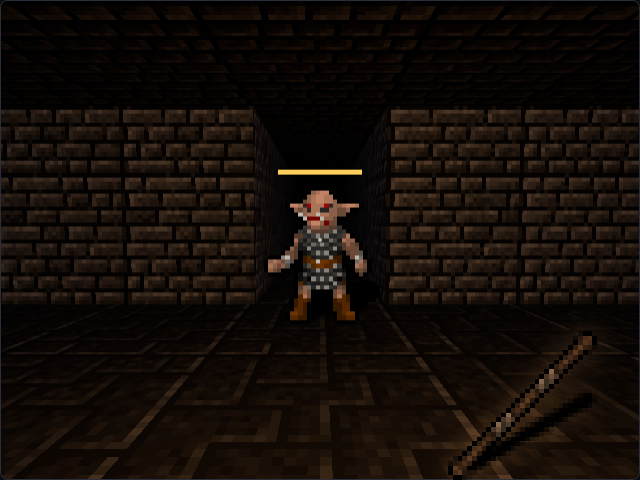
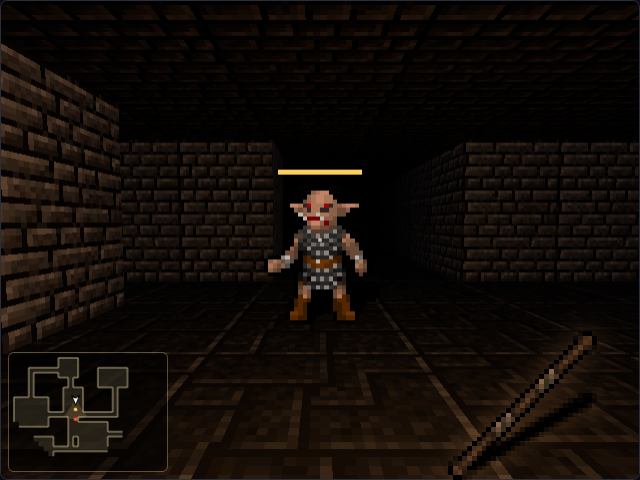
3D 화면에 겹쳐 보는 지도 (dc#110)
- 작게(왼쪽 아래, 처음) → 크게(가운데 반투명) → 끄기: Tab · 휴대폰 지도 버튼, 기기에 저장 (rl_3dmap)
- 가 본 곳의 벽 윤곽, 계단·상점·웨이포인트·묘비, 보이는 아이템·몬스터, 나는 방향 화살표와 시야
- RLView3D.ready로 층을 다 지은 뒤 시험 (첫 프레임이 방향을 바꾸던 흔들림 없앰), 공격 확인은 저장 뒤 읽기
- 도움말·번역, devlog, 블로그 지도 그림

Claude-Session: https://claude.ai/code/session_0136PhXDkXNJUPAKZG8VyysT

diff --git a/index.html b/index.html
@@ -231,6 +231,10 @@
   #hurt3d.on { animation: hurt3d 420ms ease-out; }
   @keyframes hurt3d { from { opacity: 1; } to { opacity: 0; } }
   #view3d-btn.on { border-color: var(--accent); color: var(--accent); }
+  /* 3D 지도 (dc#110): 작게는 왼쪽 아래, 크게는 화면 가운데에 반투명으로 겹침 */
+  #map3d { display: none; position: absolute; pointer-events: none; border-radius: 6px; }
+  body.view-3d:not(.in-lobby):not(.in-tower) #map3d.small { display: block; left: 8px; bottom: 8px; border: 1px solid rgba(214, 200, 150, 0.35); }
+  body.view-3d:not(.in-lobby):not(.in-tower) #map3d.big { display: block; left: 50%; top: 50%; transform: translate(-50%, -50%); background: rgba(0, 0, 0, 0.35); }
   body.in-tower #tp-potion, body.in-tower #map-btn { display: none !important; }   /* 점프 던전: 포션·지도 없음 (점프·포탈(나가기)만) */
   /* 옆에서 보는 화면(점프 던전 dc#89 · 마을 dc#90) 휴대폰 배치: 왼손 엄지 ◀ ▶ (아래에 점프 던전은 ▼ 발판 아래로, 마을은 ▲ 들어가기)
      · 오른손 엄지 큰 점프 버튼 · 위에 작게 인벤토리·도감(·포탈). 상자(.dpad·.actions)를 풀어 버튼을 한 격자에 바로 놓음 */
@@ -682,7 +686,7 @@
   </div>
   <div id="log"></div>
   <p class="hint"><span class="keys-only" data-t>이동: 방향키 / WASD &nbsp;·&nbsp; 제자리 대기: . (마침표) &nbsp;·&nbsp; 포션: Q (10턴마다) &nbsp;·&nbsp; 인벤토리: I &nbsp;·&nbsp; 도감: B &nbsp;·&nbsp; 전체 지도: M &nbsp;·&nbsp; 지도 겹쳐 보기: Tab &nbsp;·&nbsp; 칸 클릭: 자동 이동 &nbsp;·&nbsp; 점프: Space + 방향 &nbsp;·&nbsp; 포탈(로비로): P<br></span>
-  <span class="keys-only" data-t>3D 화면(시험판): V &nbsp;·&nbsp; 앞뒤 W·S &nbsp;·&nbsp; 옆걸음 A·D &nbsp;·&nbsp; 둘러보기: 마우스 또는 ← → &nbsp;·&nbsp; 공격: 클릭 또는 Space<br></span>
+  <span class="keys-only" data-t>3D 화면(시험판): V &nbsp;·&nbsp; 앞뒤 W·S &nbsp;·&nbsp; 옆걸음 A·D &nbsp;·&nbsp; 둘러보기: 마우스 또는 ← → &nbsp;·&nbsp; 공격: 클릭 또는 Space &nbsp;·&nbsp; 지도: Tab (작게·크게·끄기)<br></span>
   <span class="touch-only" data-t>방향 버튼을 누르고 있거나 화면을 밀면 움직여요. 칸을 누르면 거기까지 자동으로 걸어가요.<br></span>
   <span data-t>적에게 부딪히면 공격, 계단(&gt;)을 밟으면 아래층. 5층마다 보스가 있고, 50층 보스를 잡으면 완료 → <b>나이트메어(▼)</b>와 <b>골드 던전</b>이 열려요.<br>
   바닥의 <b>!</b>는 좋은 장비, <b>♦</b>는 보석(인벤토리에서 홈에 넣어요), 무지개색 <b>♦</b>는 룬(나이트메어 50층 보스). 포션(Q)은 10턴마다 무제한. <b>포탈(P)</b>을 타면 로비로 가고 HP가 다 차요.<br>
@@ -4129,7 +4133,7 @@
     render();
   }
   overlayLabel();
-  overlayBtn.addEventListener("click", () => { if (scene === "dungeon") toggleOverlay(); overlayBtn.blur(); });
+  overlayBtn.addEventListener("click", () => { if (View3D.active()) View3D.cycleMap(); else if (scene === "dungeon") toggleOverlay(); overlayBtn.blur(); });
   function drawOverlay() {
     ctx.save();
     ctx.setTransform(PX, 0, 0, PX, 0, 0);
@@ -4639,7 +4643,10 @@
     let drawn = [];               // 지난 프레임에 그린 몬스터 (쓰러지면 연기)
     const stage = document.getElementById("stage"), btn = document.getElementById("view3d-btn");
     const hand = el("div", { id: "hand3d", hidden: true }), hurt = el("div", { id: "hurt3d" }), aim = el("div", { id: "aim3d" });
-    stage.append(hand, hurt, aim);
+    // 겹쳐 보는 지도 (dc#110): 작게(왼쪽 아래) → 크게(화면 전체에 반투명) → 끄기. Tab · 휴대폰 지도 버튼. 기기에 저장 (rl_3dmap)
+    const mapCv = el("canvas", { id: "map3d" }), MAP_MODES = ["small", "big", "off"];
+    let mapMode = MAP_MODES.includes(store.get("rl_3dmap")) ? store.get("rl_3dmap") : "small";
+    stage.append(hand, hurt, aim, mapCv);
     const label = () => { btn.textContent = on ? T("2D 화면 (V)") : T("3D 화면 (V)"); btn.classList.toggle("on", on); };
     const active = () => on && !!view && scene === "dungeon";
     const paused = () => gameOver || document.hidden || Ads.isOpen() || portalAd || !!document.querySelector(".overlay:not([hidden])");
@@ -4807,6 +4814,54 @@
         const sp = (now - swingT) / 260;
         hand.style.transform = sp < 1 ? `rotate(${-70 * Math.sin(sp * Math.PI)}deg) translate(${-40 * Math.sin(sp * Math.PI)}px, ${-20 * Math.sin(sp * Math.PI)}px)` : `translateY(${bob * 300}px)`;
       }
+      drawMap();
+    }
+    // 지도: 가 본 곳의 바닥과 벽 윤곽 (2D 지도 겹쳐 보기와 같은 모양), 계단 · 상점 · 웨이포인트 · 보이는 아이템과 몬스터,
+    //   나는 보는 방향을 가리키는 화살표와 옅은 시야. 위쪽이 북쪽(지도 그대로)
+    function cycleMap() {
+      mapMode = MAP_MODES[(MAP_MODES.indexOf(mapMode) + 1) % MAP_MODES.length];
+      store.set("rl_3dmap", mapMode);
+      Tips.step("map");
+    }
+    function drawMap() {
+      mapCv.className = mapMode;
+      if (mapMode === "off") return;
+      const big = mapMode === "big", cw = view.canvas.clientWidth, K = big ? Math.floor(Math.min(cw / MAP_W, cw * 0.75 / MAP_H) * 0.92) : Math.max(4, Math.round(cw / 128));
+      const w = MAP_W * K, h = MAP_H * K, dpr = Math.min(2, window.devicePixelRatio || 1);
+      if (mapCv.width !== Math.round(w * dpr)) { mapCv.width = Math.round(w * dpr); mapCv.height = Math.round(h * dpr); mapCv.style.width = `${w}px`; mapCv.style.height = `${h}px`; }
+      const g = mapCv.getContext("2d");
+      g.setTransform(dpr, 0, 0, dpr, 0, 0);
+      g.clearRect(0, 0, w, h);
+      if (!big) { g.fillStyle = "rgba(0, 0, 0, 0.55)"; g.fillRect(0, 0, w, h); }
+      const open = (x, y) => x >= 0 && y >= 0 && x < MAP_W && y < MAP_H && map[y][x] !== WALL;
+      g.fillStyle = "rgba(214, 200, 150, 0.14)";
+      g.beginPath();
+      for (let y = 0; y < MAP_H; y++) for (let x = 0; x < MAP_W; x++) {
+        if (!seen[y][x] || !open(x, y)) continue;
+        const px = x * K, py = y * K;
+        g.fillRect(px, py, K, K);
+        if (!open(x, y - 1)) { g.moveTo(px, py); g.lineTo(px + K, py); }
+        if (!open(x, y + 1)) { g.moveTo(px, py + K); g.lineTo(px + K, py + K); }
+        if (!open(x - 1, y)) { g.moveTo(px, py); g.lineTo(px, py + K); }
+        if (!open(x + 1, y)) { g.moveTo(px + K, py); g.lineTo(px + K, py + K); }
+      }
+      g.strokeStyle = "rgba(214, 200, 150, 0.85)"; g.lineWidth = big ? 1.5 : 1; g.stroke();
+      const dot = (x, y, color, r = K * 0.32) => { g.fillStyle = color; g.beginPath(); g.arc((x + 0.5) * K, (y + 0.5) * K, Math.max(1.5, r), 0, Math.PI * 2); g.fill(); };
+      for (let y = 0; y < MAP_H; y++) for (let x = 0; x < MAP_W; x++) if (seen[y][x] && map[y][x] === STAIRS) dot(x, y, "#ffcf5c", K * 0.45);
+      if (shop && seen[shop.y]?.[shop.x]) dot(shop.x, shop.y, SHOP_COLOR, K * 0.45);
+      if (wpSpot && seen[wpSpot.y]?.[wpSpot.x]) dot(wpSpot.x, wpSpot.y, WP_COLOR, K * 0.45);
+      if (grave && seen[grave.y]?.[grave.x]) dot(grave.x, grave.y, "#c8ccd8", K * 0.4);
+      for (const it of items) if (visible[it.y]?.[it.x]) dot(it.x, it.y, it.type === "gear" ? RLItems.RARITIES[it.item.rarity]?.color || "#fff" : it.type === "gold" ? "#ffcf5c" : "#ff6bd3", K * 0.22);
+      for (const e of enemies) if (e.hp > 0 && visible[e.y]?.[e.x]) { const d = disp.get(e); dot(d ? d.x : e.x, d ? d.y : e.y, e.named ? RLMonsters.NAMED_COLOR : e.kind === "boss" ? BOSS_COLOR : e.kind === "elite" ? ELITE_COLOR : "#ff4a3a", K * 0.34); }
+      // 나: 시야(옅은 부채꼴)와 보는 쪽 화살표
+      const mx = pos.x * K, my = pos.y * K, a = yaw - Math.PI / 2;
+      g.fillStyle = "rgba(255, 200, 120, 0.16)";
+      g.beginPath(); g.moveTo(mx, my); g.arc(mx, my, K * 4, a - 0.6, a + 0.6); g.closePath(); g.fill();
+      g.save(); g.translate(mx, my); g.rotate(yaw);
+      const r = Math.max(5.5, K * 0.6);
+      g.fillStyle = "#ffffff"; g.strokeStyle = "#000"; g.lineWidth = 1;
+      g.beginPath(); g.moveTo(0, -r); g.lineTo(r * 0.7, r * 0.7); g.lineTo(0, r * 0.3); g.lineTo(-r * 0.7, r * 0.7); g.closePath(); g.fill(); g.stroke();
+      g.restore();
     }
     // 피해 숫자 자리 (showDamage): 그 몬스터·나의 머리 위
     function popAt(target) {
@@ -4836,6 +4891,7 @@
         case "arrowleft": held.tl = v; return true;
         case "arrowright": held.tr = v; return true;
         case " ": case "f": case "enter": held.atk = down; if (down) swing(); return true;
+        case "tab": if (down) cycleMap(); return true;
         default: return false;
       }
     }
@@ -4878,7 +4934,9 @@
     label();
     if (on) load();
     requestAnimationFrame(loop);
-    return { get on() { return on; }, active, toggle, key, release, popAt, fx, swing, get pos() { return { ...pos, yaw, pitch }; },
+    return { get on() { return on; }, active, toggle, key, release, popAt, fx, swing, cycleMap, get mapMode() { return mapMode; },
+      get ready() { return active() && levelRef === map; },   // ready: 이 층을 다 지어 그리는 중 (시험·그림 찍기에서 기다림)
+      get pos() { return { ...pos, yaw, pitch }; },
       // 시험용: 보는 방향·자리 바꾸기
       look(a, p = 0) { yaw = a; pitch = p; } };
   })();

diff --git a/blog/naver/2026-10-28.html b/blog/naver/2026-10-28.html
@@ -72,7 +72,7 @@
 <p class="steps">네이버 블로그 → 글쓰기에서 ① 제목 복사 → 제목 칸에 붙여 넣기 ② 본문 복사 → 본문에 붙여 넣기 ③ 태그 입력 → 발행</p>
 <div class="bar"><button type="button" id="copy-title">① 제목 복사</button><button type="button" id="copy-body">② 본문 복사</button></div>
 <p id="status" aria-live="polite"></p>
-<p class="steps">이미지 9장은 본문과 함께 복사돼요. 네이버에 이미지가 안 들어가면 아래에서 저장해서 그 자리에 올려 주세요: <a href="../images/store-cover.jpg" download="2026-10-28-1-store-cover.jpg">1. 가로 표지: 헬 던전에서 화염구가 터지는 순간과 게임 로고</a> · <a href="../images/media-page.png" download="2026-10-28-2-media-page.png">2. 블로그의 게임 이미지 페이지: 누르면 원래 크기, 내려받기 버튼과 전체 zip</a> · <a href="../images/sound-steps.png" download="2026-10-28-3-sound-steps.png">3. 🔊 소리 설정: 효과음과 따로 발소리만 끌 수 있어요</a> · <a href="../images/gift-banner.png" download="2026-10-28-4-gift-banner.png">4. 받을 수 있으면 게임 화면 오른쪽 위에 반짝이는 배너</a> · <a href="../images/gift-pick.png" download="2026-10-28-5-gift-pick.png">5. 광고를 보고 나면 세트·유니크 3개 중 하나를 골라요</a> · <a href="../images/shop-odds.png" download="2026-10-28-6-shop-odds.png">6. 상점 아래에 붙은 장비 상자 확률 정보</a> · <a href="../images/view3d-dungeon.png" download="2026-10-28-7-view3d-dungeon.png">7. 3D 화면: 횃불 하나로 비추는 어두운 던전, 몬스터가 먼저 다가와요</a> · <a href="../images/view3d-hell.png" download="2026-10-28-8-view3d-hell.png">8. 3D 화면: 헬 던전은 붉은 빛</a> · <a href="../images/view3d-fight.png" download="2026-10-28-9-view3d-fight.png">9. 3D 화면: 붙은 몬스터를 휘둘러 공격, 맞으면 화면 가장자리가 붉게</a></p>
+<p class="steps">이미지 10장은 본문과 함께 복사돼요. 네이버에 이미지가 안 들어가면 아래에서 저장해서 그 자리에 올려 주세요: <a href="../images/store-cover.jpg" download="2026-10-28-1-store-cover.jpg">1. 가로 표지: 헬 던전에서 화염구가 터지는 순간과 게임 로고</a> · <a href="../images/media-page.png" download="2026-10-28-2-media-page.png">2. 블로그의 게임 이미지 페이지: 누르면 원래 크기, 내려받기 버튼과 전체 zip</a> · <a href="../images/sound-steps.png" download="2026-10-28-3-sound-steps.png">3. 🔊 소리 설정: 효과음과 따로 발소리만 끌 수 있어요</a> · <a href="../images/gift-banner.png" download="2026-10-28-4-gift-banner.png">4. 받을 수 있으면 게임 화면 오른쪽 위에 반짝이는 배너</a> · <a href="../images/gift-pick.png" download="2026-10-28-5-gift-pick.png">5. 광고를 보고 나면 세트·유니크 3개 중 하나를 골라요</a> · <a href="../images/shop-odds.png" download="2026-10-28-6-shop-odds.png">6. 상점 아래에 붙은 장비 상자 확률 정보</a> · <a href="../images/view3d-dungeon.png" download="2026-10-28-7-view3d-dungeon.png">7. 3D 화면: 횃불 하나로 비추는 어두운 던전, 몬스터가 먼저 다가와요</a> · <a href="../images/view3d-hell.png" download="2026-10-28-8-view3d-hell.png">8. 3D 화면: 헬 던전은 붉은 빛</a> · <a href="../images/view3d-fight.png" download="2026-10-28-9-view3d-fight.png">9. 3D 화면: 붙은 몬스터를 휘둘러 공격, 맞으면 화면 가장자리가 붉게</a> · <a href="../images/view3d-map.png" download="2026-10-28-10-view3d-map.png">10. 3D 화면에 겹쳐 보는 지도: Tab으로 작게 → 크게 → 끄기</a></p>
 <div id="paper">
 <p>어제 던전 크롤러를 Poki·CrazyGames 같은 게임 포털에 올릴 수 있게 혼자 하는 HTML5 버전을 만들었어요. 그런데 포털에 게임을 등록하려면 게임 파일만으로는 부족해요. 게임 목록에 보일 표지(썸네일), 게임 화면 캡처, 소개 글과 조작법도 필요해요.</p>
 <p><br></p>
@@ -224,6 +224,17 @@
 <p style="text-align:center;"><img src="https://game.apacimtest.com/blog/images/view3d-fight.png" alt="3D 화면: 붙은 몬스터를 휘둘러 공격, 맞으면 화면 가장자리가 붉게" style="max-width:100%;height:auto;"></p>
 <p style="text-align:center;"><span style="font-size:13px;color:#888888;">3D 화면: 붙은 몬스터를 휘둘러 공격, 맞으면 화면 가장자리가 붉게</span></p>
 <p><br></p>
+<p><b><span style="font-size:19px;">3D에서도 지도를 겹쳐 봐요</span></b></p>
+<p>1인칭으로 보니 길을 잃기 쉬웠어요. 그래서 3D 화면 위에 지도를 겹쳐 보이게 했어요.</p>
+<p><br></p>
+<p>• 처음에는 왼쪽 아래에 작은 지도가 떠요</p>
+<p>• Tab(휴대폰은 지도 버튼)을 누르면 화면 가운데에 크게, 한 번 더 누르면 꺼져요</p>
+<p>• 가 본 곳의 벽 윤곽, 계단, 상점, 웨이포인트, 보이는 아이템과 몬스터가 나와요</p>
+<p>• 나는 화살표로 보이고, 보는 쪽으로 옅은 시야가 펼쳐져요</p>
+<p><br></p>
+<p style="text-align:center;"><img src="https://game.apacimtest.com/blog/images/view3d-map.png" alt="3D 화면에 겹쳐 보는 지도: Tab으로 작게 → 크게 → 끄기" style="max-width:100%;height:auto;"></p>
+<p style="text-align:center;"><span style="font-size:13px;color:#888888;">3D 화면에 겹쳐 보는 지도: Tab으로 작게 → 크게 → 끄기</span></p>
+<p><br></p>
 <p><b><span style="font-size:19px;">규칙은 하나도 안 바뀌었어요</span></b></p>
 <p>화면만 바뀌고 나머지는 모두 원래 게임 그대로예요. 몬스터, 아이템, 세트 스킬, 계단, 웨이포인트, 저장, 랭킹 모두 같은 코드가 처리해요. 그래서 2D로 하던 판을 3D로 이어서 할 수도 있고, 언제든 다시 2D로 돌아갈 수도 있어요.</p>
 <p><br></p>
@@ -233,7 +244,7 @@
 <p>• 포털 등록 화면에서 받는 크기를 확인하고, 다르면 그 크기로 다시 만들기</p>
 <p>• 포털에 올리고 Poki·CrazyGames의 확인 도구로 광고와 플레이 알림 확인하기</p>
 <p>• 구글 광고 승인이 나면 무료 선물 광고도 진짜 광고로 바꾸기</p>
-<p>• 3D 화면 다듬기: 작은 지도, 몬스터·장비를 3D 모델로, 휴대폰에서 확인</p>
+<p>• 3D 화면 다듬기: 몬스터·장비를 3D 모델로, 휴대폰에서 확인</p>
 <p>• 안드로이드 앱으로 만들어서 구글 플레이에 올리기</p>
 <p><br></p>
 <p><br></p>

diff --git a/blog/2026-10-28.html b/blog/2026-10-28.html
@@ -121,11 +121,15 @@
 <p>예전에는 내가 한 칸 움직여야 몬스터도 한 칸 움직였어요. 3D 화면에서는 0.6초마다 저절로 시간이 흘러서, 가만히 있어도 몬스터가 먼저 다가오고 때려요.</p>
 <ul><li>키보드: W·S 앞뒤, A·D 옆걸음, 마우스(또는 ← →)로 둘러보기, 클릭이나 Space로 공격</li><li>휴대폰: 화면 왼쪽을 끌면 이동, 오른쪽을 끌면 둘러보기, 공격 버튼이나 화면 오른쪽을 톡</li><li>공격은 0.6초에 한 번이에요. 옆이나 뒤에 붙은 몬스터는 돌아서 때려요</li><li>맞으면 화면 가장자리가 붉게 번쩍여요</li><li>인벤토리나 상점 창을 열면 시간이 멈춰요</li></ul>
 <figure><img src="images/view3d-fight.png" alt="3D 화면: 붙은 몬스터를 휘둘러 공격, 맞으면 화면 가장자리가 붉게" loading="lazy"><figcaption>3D 화면: 붙은 몬스터를 휘둘러 공격, 맞으면 화면 가장자리가 붉게</figcaption></figure>
+<h3>3D에서도 지도를 겹쳐 봐요</h3>
+<p>1인칭으로 보니 길을 잃기 쉬웠어요. 그래서 3D 화면 위에 지도를 겹쳐 보이게 했어요.</p>
+<ul><li>처음에는 왼쪽 아래에 작은 지도가 떠요</li><li>Tab(휴대폰은 지도 버튼)을 누르면 화면 가운데에 크게, 한 번 더 누르면 꺼져요</li><li>가 본 곳의 벽 윤곽, 계단, 상점, 웨이포인트, 보이는 아이템과 몬스터가 나와요</li><li>나는 화살표로 보이고, 보는 쪽으로 옅은 시야가 펼쳐져요</li></ul>
+<figure><img src="images/view3d-map.png" alt="3D 화면에 겹쳐 보는 지도: Tab으로 작게 → 크게 → 끄기" loading="lazy"><figcaption>3D 화면에 겹쳐 보는 지도: Tab으로 작게 → 크게 → 끄기</figcaption></figure>
 <h3>규칙은 하나도 안 바뀌었어요</h3>
 <p>화면만 바뀌고 나머지는 모두 원래 게임 그대로예요. 몬스터, 아이템, 세트 스킬, 계단, 웨이포인트, 저장, 랭킹 모두 같은 코드가 처리해요. 그래서 2D로 하던 판을 3D로 이어서 할 수도 있고, 언제든 다시 2D로 돌아갈 수도 있어요.</p>
 <p>게임 위쪽의 <strong>3D 화면 (V)</strong> 버튼으로 켜요. 아직 시험판이라 처음에는 꺼져 있어요. 3D 그림 프로그램(three.js)은 켤 때만 받아서, 2D로 하는 사람은 기다릴 필요가 없어요. 마을은 지금처럼 옆에서 보는 화면이에요.</p>
 <h2>다음에 할 것</h2>
-<ul><li>포털 등록 화면에서 받는 크기를 확인하고, 다르면 그 크기로 다시 만들기</li><li>포털에 올리고 Poki·CrazyGames의 확인 도구로 광고와 플레이 알림 확인하기</li><li>구글 광고 승인이 나면 무료 선물 광고도 진짜 광고로 바꾸기</li><li>3D 화면 다듬기: 작은 지도, 몬스터·장비를 3D 모델로, 휴대폰에서 확인</li><li>안드로이드 앱으로 만들어서 구글 플레이에 올리기</li></ul>
+<ul><li>포털 등록 화면에서 받는 크기를 확인하고, 다르면 그 크기로 다시 만들기</li><li>포털에 올리고 Poki·CrazyGames의 확인 도구로 광고와 플레이 알림 확인하기</li><li>구글 광고 승인이 나면 무료 선물 광고도 진짜 광고로 바꾸기</li><li>3D 화면 다듬기: 몬스터·장비를 3D 모델로, 휴대폰에서 확인</li><li>안드로이드 앱으로 만들어서 구글 플레이에 올리기</li></ul>
 </article>
 <nav class="pager"><span><a href="2026-10-27.html">← 점프 던전은 쉬고, 웨이포인트·묘비, 50층 정식 v1, 소리, 그리고 게임 포털 준비</a></span><span></span></nav>
 <footer>던전 크롤러 개발 블로그 · <a href="https://game.apacimtest.com/">게임 하기</a> · <a href="https://game.apacimtest.com/blog/media.html">게임 이미지</a> · <a href="https://game.apacimtest.com/blog/feed.xml">RSS</a></footer>

diff --git a/i18n/ja-ui.js b/i18n/ja-ui.js
@@ -1160,7 +1160,7 @@
     "장비 상자 확률": "装備ボックスの確率",
     // 3D 화면 (dc#109)
     "공격": "攻撃",
-    "3D 화면(시험판): V &nbsp;·&nbsp; 앞뒤 W·S &nbsp;·&nbsp; 옆걸음 A·D &nbsp;·&nbsp; 둘러보기: 마우스 또는 ← → &nbsp;·&nbsp; 공격: 클릭 또는 Space<br>": "3D画面(試験版): V &nbsp;·&nbsp; 前後 W·S &nbsp;·&nbsp; 横移動 A·D &nbsp;·&nbsp; 見回す: マウスまたは ← → &nbsp;·&nbsp; 攻撃: クリックまたは Space<br>",
+    "3D 화면(시험판): V &nbsp;·&nbsp; 앞뒤 W·S &nbsp;·&nbsp; 옆걸음 A·D &nbsp;·&nbsp; 둘러보기: 마우스 또는 ← → &nbsp;·&nbsp; 공격: 클릭 또는 Space &nbsp;·&nbsp; 지도: Tab (작게·크게·끄기)<br>": "3D画面(試験版): V &nbsp;·&nbsp; 前後 W·S &nbsp;·&nbsp; 横移動 A·D &nbsp;·&nbsp; 見回す: マウスまたは ← → &nbsp;·&nbsp; 攻撃: クリックまたは Space &nbsp;·&nbsp; マップ: Tab (小・大・オフ)<br>",
     "2D 화면 (V)": "2D画面 (V)",
     "3D 화면 (V)": "3D画面 (V)",
     "이 기기에서는 3D 화면을 쓸 수 없어서 2D로 돌아왔다.": "この端末では3D画面を使えないため、2Dに戻った。",

diff --git a/i18n/en-ui.js b/i18n/en-ui.js
@@ -1160,7 +1160,7 @@
     "장비 상자 확률": "Equipment box drop rates",
     // 3D 화면 (dc#109)
     "공격": "Attack",
-    "3D 화면(시험판): V &nbsp;·&nbsp; 앞뒤 W·S &nbsp;·&nbsp; 옆걸음 A·D &nbsp;·&nbsp; 둘러보기: 마우스 또는 ← → &nbsp;·&nbsp; 공격: 클릭 또는 Space<br>": "3D view (beta): V &nbsp;·&nbsp; forward/back W·S &nbsp;·&nbsp; strafe A·D &nbsp;·&nbsp; look: mouse or ← → &nbsp;·&nbsp; attack: click or Space<br>",
+    "3D 화면(시험판): V &nbsp;·&nbsp; 앞뒤 W·S &nbsp;·&nbsp; 옆걸음 A·D &nbsp;·&nbsp; 둘러보기: 마우스 또는 ← → &nbsp;·&nbsp; 공격: 클릭 또는 Space &nbsp;·&nbsp; 지도: Tab (작게·크게·끄기)<br>": "3D view (beta): V &nbsp;·&nbsp; forward/back W·S &nbsp;·&nbsp; strafe A·D &nbsp;·&nbsp; look: mouse or ← → &nbsp;·&nbsp; attack: click or Space &nbsp;·&nbsp; map: Tab (small · large · off)<br>",
     "2D 화면 (V)": "2D view (V)",
     "3D 화면 (V)": "3D view (V)",
     "이 기기에서는 3D 화면을 쓸 수 없어서 2D로 돌아왔다.": "3D view isn't available on this device, so you're back in 2D.",

diff --git a/docs/devlog/2026-10-28.md b/docs/devlog/2026-10-28.md
@@ -165,3 +165,21 @@
 - `test/view3d-e2e.mjs`(새로, 27개): 꺼져 있으면 2D 그대로·three.js를 받지 않음, V로 켜고 끄기(저장), WebGL로 실제로 그려짐, W로 걷기·줍기·벽에 막힘·옆걸음, 시간이 흘러 몬스터가 다가옴, 인벤토리를 열면 멈춤, 앞 몬스터 공격·한 턴에 한 번·뒤 몬스터는 돌아서, 피해 숫자 위치, 계단 → 다음 층을 새로 그림, 마을은 2D
 - 헤드리스 WebGL은 SwiftShader (`--use-angle=swiftshader`)
 
+## 3D 화면에 겹쳐 보는 지도 (dc#110)
+
+### 사용자 요청
+- "3D라도 작은 지도가 겹쳐보이게 할수 없어?"
+
+### 바꾼 것
+- `index.html` View3D: 3D 화면 위에 지도 캔버스(`#map3d`)
+  - 작게(처음, 왼쪽 아래 · 한 칸 약 5px, 어두운 바탕) → 크게(화면 가운데에 반투명, 화면에 맞는 크기) → 끄기. Tab · 휴대폰 지도 버튼, 기기에 저장 (`rl_3dmap`)
+  - 2D 지도 겹쳐 보기와 같은 모양: 가 본 곳의 바닥과 벽 윤곽, 계단 · 상점 · 웨이포인트 · 묘비, 보이는 아이템(등급 색)과 몬스터(정예·보스·네임드 색)
+  - 나는 보는 방향 화살표 + 옅은 시야 부채꼴. 위쪽이 북쪽
+  - 왼쪽 위 튜토리얼 말풍선·오른쪽 위 선물 배너와 겹치지 않게 작은 지도는 왼쪽 아래
+- `RLView3D.ready`: 층을 다 지어 그리는 중 (시험·그림 찍기는 이걸 기다림 → 첫 프레임이 보는 방향을 바꾸는 일 없음)
+- 도움말에 "지도: Tab (작게·크게·끄기)" (en·ja)
+
+### 테스트
+- `view3d-e2e`(31개): 작은 지도가 처음에 왼쪽 아래에 그려짐, Tab → 크게(가운데) → 끄기(저장) → 작게
+- 공격 확인은 저장(턴이 지날 때)을 기다렸다가 읽게 고침 (가끔 저장 전에 읽어 실패하던 것)
+

diff --git a/blog/posts/2026-10-28.md b/blog/posts/2026-10-28.md
@@ -161,6 +161,17 @@ tags: 개발일기, 게임 포털, 사운드, 광고 보상, Claude Code
 
 ![3D 화면: 붙은 몬스터를 휘둘러 공격, 맞으면 화면 가장자리가 붉게](images/view3d-fight.png)
 
+### 3D에서도 지도를 겹쳐 봐요
+
+1인칭으로 보니 길을 잃기 쉬웠어요. 그래서 3D 화면 위에 지도를 겹쳐 보이게 했어요.
+
+- 처음에는 왼쪽 아래에 작은 지도가 떠요
+- Tab(휴대폰은 지도 버튼)을 누르면 화면 가운데에 크게, 한 번 더 누르면 꺼져요
+- 가 본 곳의 벽 윤곽, 계단, 상점, 웨이포인트, 보이는 아이템과 몬스터가 나와요
+- 나는 화살표로 보이고, 보는 쪽으로 옅은 시야가 펼쳐져요
+
+![3D 화면에 겹쳐 보는 지도: Tab으로 작게 → 크게 → 끄기](images/view3d-map.png)
+
 ### 규칙은 하나도 안 바뀌었어요
 
 화면만 바뀌고 나머지는 모두 원래 게임 그대로예요. 몬스터, 아이템, 세트 스킬, 계단, 웨이포인트, 저장, 랭킹 모두 같은 코드가 처리해요. 그래서 2D로 하던 판을 3D로 이어서 할 수도 있고, 언제든 다시 2D로 돌아갈 수도 있어요.
@@ -172,5 +183,5 @@ tags: 개발일기, 게임 포털, 사운드, 광고 보상, Claude Code
 - 포털 등록 화면에서 받는 크기를 확인하고, 다르면 그 크기로 다시 만들기
 - 포털에 올리고 Poki·CrazyGames의 확인 도구로 광고와 플레이 알림 확인하기
 - 구글 광고 승인이 나면 무료 선물 광고도 진짜 광고로 바꾸기
-- 3D 화면 다듬기: 작은 지도, 몬스터·장비를 3D 모델로, 휴대폰에서 확인
+- 3D 화면 다듬기: 몬스터·장비를 3D 모델로, 휴대폰에서 확인
 - 안드로이드 앱으로 만들어서 구글 플레이에 올리기
